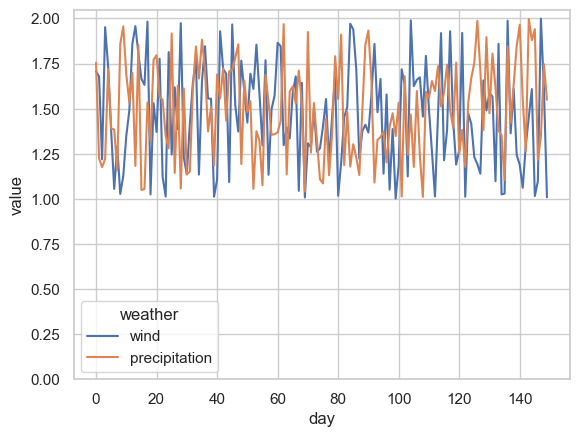
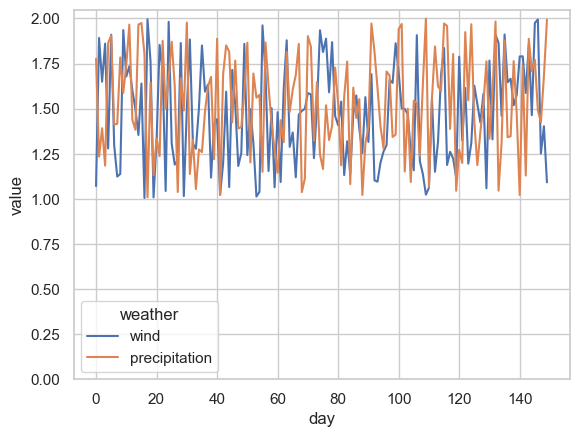
Built site for gh-pages

Changed region(s): [[0.1554, 0.0297, 0.9637, 0.476], [0.0622, 0.238, 0.1244, 0.2677]]

diff --git a/notebooks/01_weather.html b/notebooks/01_weather.html
@@ -181,7 +181,7 @@ pre > code.sourceCode > span > a:first-child::before { text-decoration: underlin
       <ul id="quarto-sidebar-section-2" class="collapse list-unstyled sidebar-section depth1 show">  
           <li class="sidebar-item">
   <div class="sidebar-item-container"> 
-  <a href="../reports/manuscript.html" class="sidebar-item-text sidebar-link"><span class="chapter-title">Manuscript</span></a>
+  <a href="../reports/manuscript.html" class="sidebar-item-text sidebar-link"><span class="chapter-title">My manuscript</span></a>
   </div>
 </li>
           <li class="sidebar-item">
@@ -234,24 +234,25 @@ pre > code.sourceCode > span > a:first-child::before { text-decoration: underlin
 
 
 <p>Import some plotting libraries and set some defaults:</p>
-<div id="cell-2" class="cell" data-execution_count="6">
-<div class="sourceCode cell-code" id="cb1"><pre class="sourceCode python code-with-copy"><code class="sourceCode python"><span id="cb1-1"><a href="#cb1-1" aria-hidden="true" tabindex="-1"></a><span class="im">from</span> IPython.display <span class="im">import</span> display, Markdown</span>
-<span id="cb1-2"><a href="#cb1-2" aria-hidden="true" tabindex="-1"></a><span class="im">import</span> matplotlib.pyplot <span class="im">as</span> plt</span>
-<span id="cb1-3"><a href="#cb1-3" aria-hidden="true" tabindex="-1"></a><span class="im">import</span> seaborn <span class="im">as</span> sns</span>
-<span id="cb1-4"><a href="#cb1-4" aria-hidden="true" tabindex="-1"></a>sns.<span class="bu">set</span>()</span>
-<span id="cb1-5"><a href="#cb1-5" aria-hidden="true" tabindex="-1"></a>sns.set_style(<span class="st">"whitegrid"</span>)</span>
-<span id="cb1-6"><a href="#cb1-6" aria-hidden="true" tabindex="-1"></a><span class="im">import</span> random</span>
-<span id="cb1-7"><a href="#cb1-7" aria-hidden="true" tabindex="-1"></a><span class="im">import</span> numpy <span class="im">as</span> np</span>
-<span id="cb1-8"><a href="#cb1-8" aria-hidden="true" tabindex="-1"></a><span class="im">import</span> pandas <span class="im">as</span> pd</span></code><button title="Copy to Clipboard" class="code-copy-button"><i class="bi"></i></button></pre></div>
+<div id="cell-2" class="cell" data-execution_count="1">
+<div class="sourceCode cell-code" id="cb1"><pre class="sourceCode python code-with-copy"><code class="sourceCode python"><span id="cb1-1"><a href="#cb1-1" aria-hidden="true" tabindex="-1"></a><span class="op">%</span>config InlineBackend.figure_formats <span class="op">=</span> [<span class="st">'svg'</span>] </span>
+<span id="cb1-2"><a href="#cb1-2" aria-hidden="true" tabindex="-1"></a><span class="im">from</span> IPython.display <span class="im">import</span> display, Markdown</span>
+<span id="cb1-3"><a href="#cb1-3" aria-hidden="true" tabindex="-1"></a><span class="im">import</span> matplotlib.pyplot <span class="im">as</span> plt</span>
+<span id="cb1-4"><a href="#cb1-4" aria-hidden="true" tabindex="-1"></a><span class="im">import</span> seaborn <span class="im">as</span> sns</span>
+<span id="cb1-5"><a href="#cb1-5" aria-hidden="true" tabindex="-1"></a>sns.<span class="bu">set</span>()</span>
+<span id="cb1-6"><a href="#cb1-6" aria-hidden="true" tabindex="-1"></a>sns.set_style(<span class="st">"whitegrid"</span>)</span>
+<span id="cb1-7"><a href="#cb1-7" aria-hidden="true" tabindex="-1"></a><span class="im">import</span> random</span>
+<span id="cb1-8"><a href="#cb1-8" aria-hidden="true" tabindex="-1"></a><span class="im">import</span> numpy <span class="im">as</span> np</span>
+<span id="cb1-9"><a href="#cb1-9" aria-hidden="true" tabindex="-1"></a><span class="im">import</span> pandas <span class="im">as</span> pd</span></code><button title="Copy to Clipboard" class="code-copy-button"><i class="bi"></i></button></pre></div>
 </div>
 <p>Here is some computation:</p>
-<div id="cell-4" class="cell" data-execution_count="7">
+<div id="cell-4" class="cell" data-execution_count="2">
 <div class="sourceCode cell-code" id="cb2"><pre class="sourceCode python code-with-copy"><code class="sourceCode python"><span id="cb2-1"><a href="#cb2-1" aria-hidden="true" tabindex="-1"></a>nr_project_days <span class="op">=</span> <span class="dv">150</span></span>
 <span id="cb2-2"><a href="#cb2-2" aria-hidden="true" tabindex="-1"></a>df <span class="op">=</span> pd.DataFrame({<span class="st">'day'</span>: <span class="bu">list</span>(<span class="bu">range</span>(nr_project_days)), </span>
 <span id="cb2-3"><a href="#cb2-3" aria-hidden="true" tabindex="-1"></a>              <span class="st">'wind'</span>: [random.random()<span class="op">+</span><span class="dv">1</span> <span class="cf">for</span> i <span class="kw">in</span> <span class="bu">range</span>(nr_project_days)], </span>
 <span id="cb2-4"><a href="#cb2-4" aria-hidden="true" tabindex="-1"></a>              <span class="st">'precipitation'</span>: [random.random()<span class="op">+</span><span class="dv">1</span> <span class="cf">for</span> i <span class="kw">in</span> <span class="bu">range</span>(nr_project_days)]})</span>
 <span id="cb2-5"><a href="#cb2-5" aria-hidden="true" tabindex="-1"></a>df</span></code><button title="Copy to Clipboard" class="code-copy-button"><i class="bi"></i></button></pre></div>
-<div class="cell-output cell-output-display" data-execution_count="7">
+<div class="cell-output cell-output-display" data-execution_count="2">
 <div>
 <div>
 
@@ -269,32 +270,32 @@ pre > code.sourceCode > span > a:first-child::before { text-decoration: underlin
 <tr class="odd">
 <td data-quarto-table-cell-role="th">0</td>
 <td>0</td>
-<td>1.707801</td>
-<td>1.754292</td>
+<td>1.070748</td>
+<td>1.776445</td>
 </tr>
 <tr class="even">
 <td data-quarto-table-cell-role="th">1</td>
 <td>1</td>
-<td>1.677524</td>
-<td>1.224805</td>
+<td>1.891542</td>
+<td>1.234198</td>
 </tr>
 <tr class="odd">
 <td data-quarto-table-cell-role="th">2</td>
 <td>2</td>
-<td>1.219416</td>
-<td>1.175622</td>
+<td>1.649125</td>
+<td>1.391212</td>
 </tr>
 <tr class="even">
 <td data-quarto-table-cell-role="th">3</td>
 <td>3</td>
-<td>1.952052</td>
-<td>1.221303</td>
+<td>1.860136</td>
+<td>1.184026</td>
 </tr>
 <tr class="odd">
 <td data-quarto-table-cell-role="th">4</td>
 <td>4</td>
-<td>1.733835</td>
-<td>1.719237</td>
+<td>1.279279</td>
+<td>1.864399</td>
 </tr>
 <tr class="even">
 <td data-quarto-table-cell-role="th">...</td>
@@ -305,32 +306,32 @@ pre > code.sourceCode > span > a:first-child::before { text-decoration: underlin
 <tr class="odd">
 <td data-quarto-table-cell-role="th">145</td>
 <td>145</td>
-<td>1.015971</td>
-<td>1.940254</td>
+<td>1.974638</td>
+<td>1.770769</td>
 </tr>
 <tr class="even">
 <td data-quarto-table-cell-role="th">146</td>
 <td>146</td>
-<td>1.098317</td>
-<td>1.216917</td>
+<td>1.994177</td>
+<td>1.490588</td>
 </tr>
 <tr class="odd">
 <td data-quarto-table-cell-role="th">147</td>
 <td>147</td>
-<td>1.999158</td>
-<td>1.344908</td>
+<td>1.251020</td>
+<td>1.423878</td>
 </tr>
 <tr class="even">
 <td data-quarto-table-cell-role="th">148</td>
 <td>148</td>
-<td>1.608523</td>
-<td>1.746911</td>
+<td>1.402272</td>
+<td>1.681365</td>
 </tr>
 <tr class="odd">
 <td data-quarto-table-cell-role="th">149</td>
 <td>149</td>
-<td>1.008365</td>
-<td>1.549489</td>
+<td>1.091301</td>
+<td>1.992777</td>
 </tr>
 </tbody>
 </table>
@@ -342,15 +343,15 @@ pre > code.sourceCode > span > a:first-child::before { text-decoration: underlin
 </div>
 <section id="weather-data" class="level2">
 <h2 class="anchored" data-anchor-id="weather-data">Weather data</h2>
-<div id="cell-doc-weather-data" class="cell" data-execution_count="8">
-<div id="doc-weather-data" class="cell-output cell-output-display cell-output-markdown" data-execution_count="8">
+<div id="cell-doc-weather-data" class="cell" data-execution_count="3">
+<div id="doc-weather-data" class="cell-output cell-output-display cell-output-markdown" data-execution_count="3">
 <p>Weather data was collected… blah, blah, blah, blah, blah, blah, blah, blah, blah, blah, blah, blah, blah, blah, blah, blah, blah, blah</p>
 </div>
 </div>
-<div id="cell-7" class="cell" data-execution_count="9">
+<div id="cell-7" class="cell" data-execution_count="4">
 <div class="sourceCode cell-code" id="cb3"><pre class="sourceCode python code-with-copy"><code class="sourceCode python"><span id="cb3-1"><a href="#cb3-1" aria-hidden="true" tabindex="-1"></a>long_format <span class="op">=</span> df.melt(id_vars<span class="op">=</span>[<span class="st">'day'</span>], value_vars<span class="op">=</span>[<span class="st">'wind'</span>, <span class="st">'precipitation'</span>], var_name<span class="op">=</span><span class="st">'weather'</span>, value_name<span class="op">=</span><span class="st">'value'</span>)</span>
 <span id="cb3-2"><a href="#cb3-2" aria-hidden="true" tabindex="-1"></a>long_format</span></code><button title="Copy to Clipboard" class="code-copy-button"><i class="bi"></i></button></pre></div>
-<div class="cell-output cell-output-display" data-execution_count="9">
+<div class="cell-output cell-output-display" data-execution_count="4">
 <div>
 <div>
 
@@ -369,31 +370,31 @@ pre > code.sourceCode > span > a:first-child::before { text-decoration: underlin
 <td data-quarto-table-cell-role="th">0</td>
 <td>0</td>
 <td>wind</td>
-<td>1.707801</td>
+<td>1.070748</td>
 </tr>
 <tr class="even">
 <td data-quarto-table-cell-role="th">1</td>
 <td>1</td>
 <td>wind</td>
-<td>1.677524</td>
+<td>1.891542</td>
 </tr>
 <tr class="odd">
 <td data-quarto-table-cell-role="th">2</td>
 <td>2</td>
 <td>wind</td>
-<td>1.219416</td>
+<td>1.649125</td>
 </tr>
 <tr class="even">
 <td data-quarto-table-cell-role="th">3</td>
 <td>3</td>
 <td>wind</td>
-<td>1.952052</td>
+<td>1.860136</td>
 </tr>
 <tr class="odd">
 <td data-quarto-table-cell-role="th">4</td>
 <td>4</td>
 <td>wind</td>
-<td>1.733835</td>
+<td>1.279279</td>
 </tr>
 <tr class="even">
 <td data-quarto-table-cell-role="th">...</td>
@@ -405,31 +406,31 @@ pre > code.sourceCode > span > a:first-child::before { text-decoration: underlin
 <td data-quarto-table-cell-role="th">295</td>
 <td>145</td>
 <td>precipitation</td>
-<td>1.940254</td>
+<td>1.770769</td>
 </tr>
 <tr class="even">
 <td data-quarto-table-cell-role="th">296</td>
 <td>146</td>
 <td>precipitation</td>
-<td>1.216917</td>
+<td>1.490588</td>
 </tr>
 <tr class="odd">
 <td data-quarto-table-cell-role="th">297</td>
 <td>147</td>
 <td>precipitation</td>
-<td>1.344908</td>
+<td>1.423878</td>
 </tr>
 <tr class="even">
 <td data-quarto-table-cell-role="th">298</td>
 <td>148</td>
 <td>precipitation</td>
-<td>1.746911</td>
+<td>1.681365</td>
 </tr>
 <tr class="odd">
 <td data-quarto-table-cell-role="th">299</td>
 <td>149</td>
 <td>precipitation</td>
-<td>1.549489</td>
+<td>1.992777</td>
 </tr>
 </tbody>
 </table>
@@ -439,7 +440,7 @@ pre > code.sourceCode > span > a:first-child::before { text-decoration: underlin
 </div>
 </div>
 </div>
-<div id="cell-fig-danish-weather" class="cell" data-execution_count="10">
+<div id="cell-fig-danish-weather" class="cell" data-execution_count="5">
 <div class="sourceCode cell-code" id="cb4"><pre class="sourceCode python code-with-copy"><code class="sourceCode python"><span id="cb4-1"><a href="#cb4-1" aria-hidden="true" tabindex="-1"></a>sns.lineplot(data<span class="op">=</span>long_format, x<span class="op">=</span><span class="st">'day'</span>, y<span class="op">=</span><span class="st">'value'</span>, hue<span class="op">=</span><span class="st">'weather'</span>)</span>
 <span id="cb4-2"><a href="#cb4-2" aria-hidden="true" tabindex="-1"></a>plt.ylim(bottom<span class="op">=</span><span class="dv">0</span>) <span class="op">;</span></span></code><button title="Copy to Clipboard" class="code-copy-button"><i class="bi"></i></button></pre></div>
 <div class="cell-output cell-output-display">

diff --git a/notebooks/02_interaction.html b/notebooks/02_interaction.html
@@ -181,7 +181,7 @@ pre > code.sourceCode > span > a:first-child::before { text-decoration: underlin
       <ul id="quarto-sidebar-section-2" class="collapse list-unstyled sidebar-section depth1 show">  
           <li class="sidebar-item">
   <div class="sidebar-item-container"> 
-  <a href="../reports/manuscript.html" class="sidebar-item-text sidebar-link"><span class="chapter-title">Manuscript</span></a>
+  <a href="../reports/manuscript.html" class="sidebar-item-text sidebar-link"><span class="chapter-title">My manuscript</span></a>
   </div>
 </li>
           <li class="sidebar-item">
@@ -235,15 +235,16 @@ pre > code.sourceCode > span > a:first-child::before { text-decoration: underlin
 
 <p>Import some plotting libraries and set some defaults:</p>
 <div id="cell-2" class="cell" data-execution_count="40">
-<div class="sourceCode cell-code" id="cb1"><pre class="sourceCode python code-with-copy"><code class="sourceCode python"><span id="cb1-1"><a href="#cb1-1" aria-hidden="true" tabindex="-1"></a><span class="im">from</span> IPython.display <span class="im">import</span> display, Markdown</span>
-<span id="cb1-2"><a href="#cb1-2" aria-hidden="true" tabindex="-1"></a><span class="im">import</span> matplotlib.pyplot <span class="im">as</span> plt</span>
-<span id="cb1-3"><a href="#cb1-3" aria-hidden="true" tabindex="-1"></a><span class="im">import</span> seaborn <span class="im">as</span> sns</span>
-<span id="cb1-4"><a href="#cb1-4" aria-hidden="true" tabindex="-1"></a>sns.<span class="bu">set</span>()</span>
-<span id="cb1-5"><a href="#cb1-5" aria-hidden="true" tabindex="-1"></a>sns.set_style(<span class="st">"whitegrid"</span>)</span>
-<span id="cb1-6"><a href="#cb1-6" aria-hidden="true" tabindex="-1"></a><span class="im">import</span> random</span>
-<span id="cb1-7"><a href="#cb1-7" aria-hidden="true" tabindex="-1"></a><span class="im">import</span> numpy <span class="im">as</span> np</span>
-<span id="cb1-8"><a href="#cb1-8" aria-hidden="true" tabindex="-1"></a><span class="im">import</span> pandas <span class="im">as</span> pd</span>
-<span id="cb1-9"><a href="#cb1-9" aria-hidden="true" tabindex="-1"></a>random_seed <span class="op">=</span> <span class="dv">5</span></span></code><button title="Copy to Clipboard" class="code-copy-button"><i class="bi"></i></button></pre></div>
+<div class="sourceCode cell-code" id="cb1"><pre class="sourceCode python code-with-copy"><code class="sourceCode python"><span id="cb1-1"><a href="#cb1-1" aria-hidden="true" tabindex="-1"></a><span class="op">%</span>config InlineBackend.figure_formats <span class="op">=</span> [<span class="st">'svg'</span>] </span>
+<span id="cb1-2"><a href="#cb1-2" aria-hidden="true" tabindex="-1"></a><span class="im">from</span> IPython.display <span class="im">import</span> display, Markdown</span>
+<span id="cb1-3"><a href="#cb1-3" aria-hidden="true" tabindex="-1"></a><span class="im">import</span> matplotlib.pyplot <span class="im">as</span> plt</span>
+<span id="cb1-4"><a href="#cb1-4" aria-hidden="true" tabindex="-1"></a><span class="im">import</span> seaborn <span class="im">as</span> sns</span>
+<span id="cb1-5"><a href="#cb1-5" aria-hidden="true" tabindex="-1"></a>sns.<span class="bu">set</span>()</span>
+<span id="cb1-6"><a href="#cb1-6" aria-hidden="true" tabindex="-1"></a>sns.set_style(<span class="st">"whitegrid"</span>)</span>
+<span id="cb1-7"><a href="#cb1-7" aria-hidden="true" tabindex="-1"></a><span class="im">import</span> random</span>
+<span id="cb1-8"><a href="#cb1-8" aria-hidden="true" tabindex="-1"></a><span class="im">import</span> numpy <span class="im">as</span> np</span>
+<span id="cb1-9"><a href="#cb1-9" aria-hidden="true" tabindex="-1"></a><span class="im">import</span> pandas <span class="im">as</span> pd</span>
+<span id="cb1-10"><a href="#cb1-10" aria-hidden="true" tabindex="-1"></a>random_seed <span class="op">=</span> <span class="dv">5</span></span></code><button title="Copy to Clipboard" class="code-copy-button"><i class="bi"></i></button></pre></div>
 </div>
 <div id="cell-3" class="cell" data-execution_count="41">
 <div class="sourceCode cell-code" id="cb2"><pre class="sourceCode python code-with-copy"><code class="sourceCode python"><span id="cb2-1"><a href="#cb2-1" aria-hidden="true" tabindex="-1"></a>danish_people <span class="op">=</span> [<span class="st">'Julie'</span>, <span class="st">'Sofie'</span>, <span class="st">'Sara'</span>, <span class="st">'Cecilie'</span>, <span class="st">'Emma'</span>, <span class="st">'Caroline'</span>, <span class="st">'Laura'</span>, <span class="st">'Mathilde'</span>, <span class="st">'Katrine'</span>, <span class="st">'Anna'</span>, <span class="st">'Emilie'</span>, <span class="st">'Ida'</span>, <span class="st">'Freja'</span>, <span class="st">'Maria'</span>, <span class="st">'Amalie'</span>, <span class="st">'Camilla'</span>, <span class="st">'Louise'</span>, <span class="st">'Signe'</span>, <span class="st">'Maja'</span>, <span class="st">'Josefine'</span>, <span class="st">'Line'</span>, <span class="st">'Nanna'</span>, <span class="st">'Anne'</span>, <span class="st">'Nicoline'</span>, <span class="st">'Clara'</span>, <span class="st">'Victoria'</span>, <span class="st">'Marie'</span>, <span class="st">'Natasja'</span>, <span class="st">'Lærke'</span>, <span class="st">'Alberte'</span>, <span class="st">'Frederikke'</span>, <span class="st">'Rebecca'</span>, <span class="st">'Mette'</span>, <span class="st">'Rikke'</span>, <span class="st">'Amanda'</span>, <span class="st">'Mia'</span>, <span class="st">'Kristine'</span>, <span class="st">'Johanne'</span>, <span class="st">'Stine'</span>, <span class="st">'Simone'</span>, <span class="st">'Isabella'</span>, <span class="st">'Jasmin'</span>, <span class="st">'Michelle'</span>, <span class="st">'Pernille'</span>, <span class="st">'Christina'</span>, <span class="st">'Astrid'</span>, <span class="st">'Sille'</span>, <span class="st">'Thea'</span>, <span class="st">'Mie'</span>, <span class="st">'Nadia'</span>, <span class="st">'Mathias'</span>,<span class="st">'Mads'</span>,<span class="st">'Mikkel'</span>,<span class="st">'Rasmus'</span>,<span class="st">'Emil'</span>,<span class="st">'Oliver'</span>,<span class="st">'Frederik'</span>,<span class="st">'Christian'</span>,<span class="st">'Nicolai'</span>,<span class="st">'Jonas'</span>,<span class="st">'Jacob'</span>,<span class="st">'Kasper'</span>,<span class="st">'Magnus'</span>,<span class="st">'Andreas'</span>,<span class="st">'Tobias'</span>,<span class="st">'Simon'</span>,<span class="st">'Lucas'</span>,<span class="st">'Marcus'</span>, <span class="st">'Victor'</span>, <span class="st">'Nicklas'</span>, <span class="st">'Sebastian'</span>, <span class="st">'Daniel'</span>, <span class="st">'Alexander'</span>, <span class="st">'Anders'</span>, <span class="st">'Christoffer'</span>, <span class="st">'Patrick'</span>, <span class="st">'Lasse'</span>, <span class="st">'Benjamin'</span>, <span class="st">'Thomas'</span>, <span class="st">'Martin'</span>, <span class="st">'Jeppe'</span>, <span class="st">'Gustav'</span>, <span class="st">'Peter'</span>, <span class="st">'Philip'</span>, <span class="st">'William'</span>, <span class="st">'Oscar'</span>, <span class="st">'Malthe'</span>, <span class="st">'Jonathan'</span>, <span class="st">'Anton'</span>, <span class="st">'Morten'</span>, <span class="st">'Carl'</span>, <span class="st">'Søren'</span>, <span class="st">'Mohammad'</span>, <span class="st">'Mark'</span>, <span class="st">'Jens'</span>, <span class="st">'Jesper'</span>, <span class="st">'David'</span>, <span class="st">'Asger'</span>, <span class="st">'Michael'</span>, <span class="st">'Johan'</span>]</span>
@@ -845,8 +846,8 @@ window.document.addEventListener("DOMContentLoaded", function (event) {
       </a>          
   </div>
   <div class="nav-page nav-page-next">
-      <a href="../reports/manuscript.html" class="pagination-link" aria-label="Manuscript">
-        <span class="nav-page-text"><span class="chapter-title">Manuscript</span></span> <i class="bi bi-arrow-right-short"></i>
+      <a href="../reports/manuscript.html" class="pagination-link" aria-label="My manuscript">
+        <span class="nav-page-text"><span class="chapter-title">My manuscript</span></span> <i class="bi bi-arrow-right-short"></i>
       </a>
   </div>
 </nav>

diff --git a/reports/manuscript.html b/reports/manuscript.html
@@ -6,8 +6,9 @@
 
 <meta name="viewport" content="width=device-width, initial-scale=1.0, user-scalable=yes">
 
+<meta name="author" content="My Name">
 
-<title>Title of your project - Manuscript</title>
+<title>Title of your project - My manuscript</title>
 <style>
 code{white-space: pre-wrap;}
 span.smallcaps{font-variant: small-caps;}
@@ -84,7 +85,7 @@ ul.task-list li input[type="checkbox"] {
       <button type="button" class="quarto-btn-toggle btn" data-bs-toggle="collapse" data-bs-target=".quarto-sidebar-collapse-item" aria-controls="quarto-sidebar" aria-expanded="false" aria-label="Toggle sidebar navigation" onclick="if (window.quartoToggleHeadroom) { window.quartoToggleHeadroom(); }">
         <i class="bi bi-layout-text-sidebar-reverse"></i>
       </button>
-        <nav class="quarto-page-breadcrumbs" aria-label="breadcrumb"><ol class="breadcrumb"><li class="breadcrumb-item"><a href="../reports/manuscript.html">Reports</a></li><li class="breadcrumb-item"><a href="../reports/manuscript.html"><span class="chapter-title">Manuscript</span></a></li></ol></nav>
+        <nav class="quarto-page-breadcrumbs" aria-label="breadcrumb"><ol class="breadcrumb"><li class="breadcrumb-item"><a href="../reports/manuscript.html">Reports</a></li><li class="breadcrumb-item"><a href="../reports/manuscript.html"><span class="chapter-title">My manuscript</span></a></li></ol></nav>
         <a class="flex-grow-1" role="button" data-bs-toggle="collapse" data-bs-target=".quarto-sidebar-collapse-item" aria-controls="quarto-sidebar" aria-expanded="false" aria-label="Toggle sidebar navigation" onclick="if (window.quartoToggleHeadroom) { window.quartoToggleHeadroom(); }">      
         </a>
       <button type="button" class="btn quarto-search-button" aria-label="" onclick="window.quartoOpenSearch();">
@@ -147,7 +148,7 @@ ul.task-list li input[type="checkbox"] {
       <ul id="quarto-sidebar-section-2" class="collapse list-unstyled sidebar-section depth1 show">  
           <li class="sidebar-item">
   <div class="sidebar-item-container"> 
-  <a href="../reports/manuscript.html" class="sidebar-item-text sidebar-link active"><span class="chapter-title">Manuscript</span></a>
+  <a href="../reports/manuscript.html" class="sidebar-item-text sidebar-link active"><span class="chapter-title">My manuscript</span></a>
   </div>
 </li>
           <li class="sidebar-item">
@@ -184,16 +185,28 @@ ul.task-list li input[type="checkbox"] {
 <!-- main -->
 <main class="content" id="quarto-document-content">
 
-<header id="title-block-header" class="quarto-title-block default"><nav class="quarto-page-breadcrumbs quarto-title-breadcrumbs d-none d-lg-block" aria-label="breadcrumb"><ol class="breadcrumb"><li class="breadcrumb-item"><a href="../reports/manuscript.html">Reports</a></li><li class="breadcrumb-item"><a href="../reports/manuscript.html"><span class="chapter-title">Manuscript</span></a></li></ol></nav>
+<header id="title-block-header" class="quarto-title-block default"><nav class="quarto-page-breadcrumbs quarto-title-breadcrumbs d-none d-lg-block" aria-label="breadcrumb"><ol class="breadcrumb"><li class="breadcrumb-item"><a href="../reports/manuscript.html">Reports</a></li><li class="breadcrumb-item"><a href="../reports/manuscript.html"><span class="chapter-title">My manuscript</span></a></li></ol></nav>
 <div class="quarto-title">
-<h1 class="title"><span class="chapter-title">Manuscript</span></h1>
+<h1 class="title"><span class="chapter-title">My manuscript</span></h1>
 </div>
 
 
 
 <div class="quarto-title-meta">
 
+    <div>
+    <div class="quarto-title-meta-heading">Author</div>
+    <div class="quarto-title-meta-contents">
+             <p>My Name </p>
+          </div>
+  </div>
     
+    <div>
+    <div class="quarto-title-meta-heading">Published</div>
+    <div class="quarto-title-meta-contents">
+      <p class="date">Invalid Date</p>
+    </div>
+  </div>
   
     
   </div>
@@ -217,7 +230,7 @@ ul.task-list li input[type="checkbox"] {
 <h3 class="anchored" data-anchor-id="weather">Weather</h3>
 <p>As shown in <a href="#fig-danish-weather" class="quarto-xref">Figure&nbsp;<span>3.1</span></a>, the Danish weather is blah, blah, blah, blah, blah, blah, blah, blah, blah, blah, blah, blah, blah, blah, blah, blah, blah, blah, blah, blah, blah, blah, blah, blah, blah, blah, blah, blah, blah, blah, blah, blah, blah, blah, blah, blah, blah, blah, blah, blah, blah, blah, blah, blah, blah.</p>
 <div class="quarto-embed-nb-cell" data-notebook="/home/runner/work/analysis-template/analysis-template/notebooks/01_weather.ipynb" data-notebook-title="Danish weather" data-notebook-cellid="cell-fig-danish-weather">
-<div id="cell-fig-danish-weather" class="cell" data-execution_count="10">
+<div id="cell-fig-danish-weather" class="cell" data-execution_count="5">
 <div class="cell-output cell-output-display">
 <div id="fig-danish-weather" class="quarto-figure quarto-figure-center quarto-float anchored">
 <figure class="quarto-float quarto-float-fig figure">
@@ -279,8 +292,8 @@ Figure&nbsp;3.2: Interaction among Danes: How Danes interact is has very little 
 <section id="weather-analysis" class="level3">
 <h3 class="anchored" data-anchor-id="weather-analysis">Weather analysis</h3>
 <div class="quarto-embed-nb-cell" data-notebook="/home/runner/work/analysis-template/analysis-template/notebooks/01_weather.ipynb" data-notebook-title="Danish weather" data-notebook-cellid="cell-doc-weather-data">
-<div id="cell-doc-weather-data" class="cell" data-execution_count="8">
-<div id="doc-weather-data" class="cell-output cell-output-display cell-output-markdown" data-execution_count="8">
+<div id="cell-doc-weather-data" class="cell" data-execution_count="3">
+<div id="doc-weather-data" class="cell-output cell-output-display cell-output-markdown" data-execution_count="3">
 <p>Weather data was collected… blah, blah, blah, blah, blah, blah, blah, blah, blah, blah, blah, blah, blah, blah, blah, blah, blah, blah</p>
 </div>
 </div>

diff --git a/reports/supplementary.html b/reports/supplementary.html
@@ -147,7 +147,7 @@ ul.task-list li input[type="checkbox"] {
       <ul id="quarto-sidebar-section-2" class="collapse list-unstyled sidebar-section depth1 show">  
           <li class="sidebar-item">
   <div class="sidebar-item-container"> 
-  <a href="../reports/manuscript.html" class="sidebar-item-text sidebar-link"><span class="chapter-title">Manuscript</span></a>
+  <a href="../reports/manuscript.html" class="sidebar-item-text sidebar-link"><span class="chapter-title">My manuscript</span></a>
   </div>
 </li>
           <li class="sidebar-item">
@@ -634,8 +634,8 @@ window.document.addEventListener("DOMContentLoaded", function (event) {
 </script>
 <nav class="page-navigation">
   <div class="nav-page nav-page-previous">
-      <a href="../reports/manuscript.html" class="pagination-link" aria-label="Manuscript">
-        <i class="bi bi-arrow-left-short"></i> <span class="nav-page-text"><span class="chapter-title">Manuscript</span></span>
+      <a href="../reports/manuscript.html" class="pagination-link" aria-label="My manuscript">
+        <i class="bi bi-arrow-left-short"></i> <span class="nav-page-text"><span class="chapter-title">My manuscript</span></span>
       </a>          
   </div>
   <div class="nav-page nav-page-next">

diff --git a/index.html b/index.html
@@ -164,7 +164,7 @@ div.csl-indent {
       <ul id="quarto-sidebar-section-2" class="collapse list-unstyled sidebar-section depth1 show">  
           <li class="sidebar-item">
   <div class="sidebar-item-container"> 
-  <a href="./reports/manuscript.html" class="sidebar-item-text sidebar-link"><span class="chapter-title">Manuscript</span></a>
+  <a href="./reports/manuscript.html" class="sidebar-item-text sidebar-link"><span class="chapter-title">My manuscript</span></a>
   </div>
 </li>
           <li class="sidebar-item">

diff --git a/references.html b/references.html
@@ -162,7 +162,7 @@ div.csl-indent {
       <ul id="quarto-sidebar-section-2" class="collapse list-unstyled sidebar-section depth1 show">  
           <li class="sidebar-item">
   <div class="sidebar-item-container"> 
-  <a href="./reports/manuscript.html" class="sidebar-item-text sidebar-link"><span class="chapter-title">Manuscript</span></a>
+  <a href="./reports/manuscript.html" class="sidebar-item-text sidebar-link"><span class="chapter-title">My manuscript</span></a>
   </div>
 </li>
           <li class="sidebar-item">
